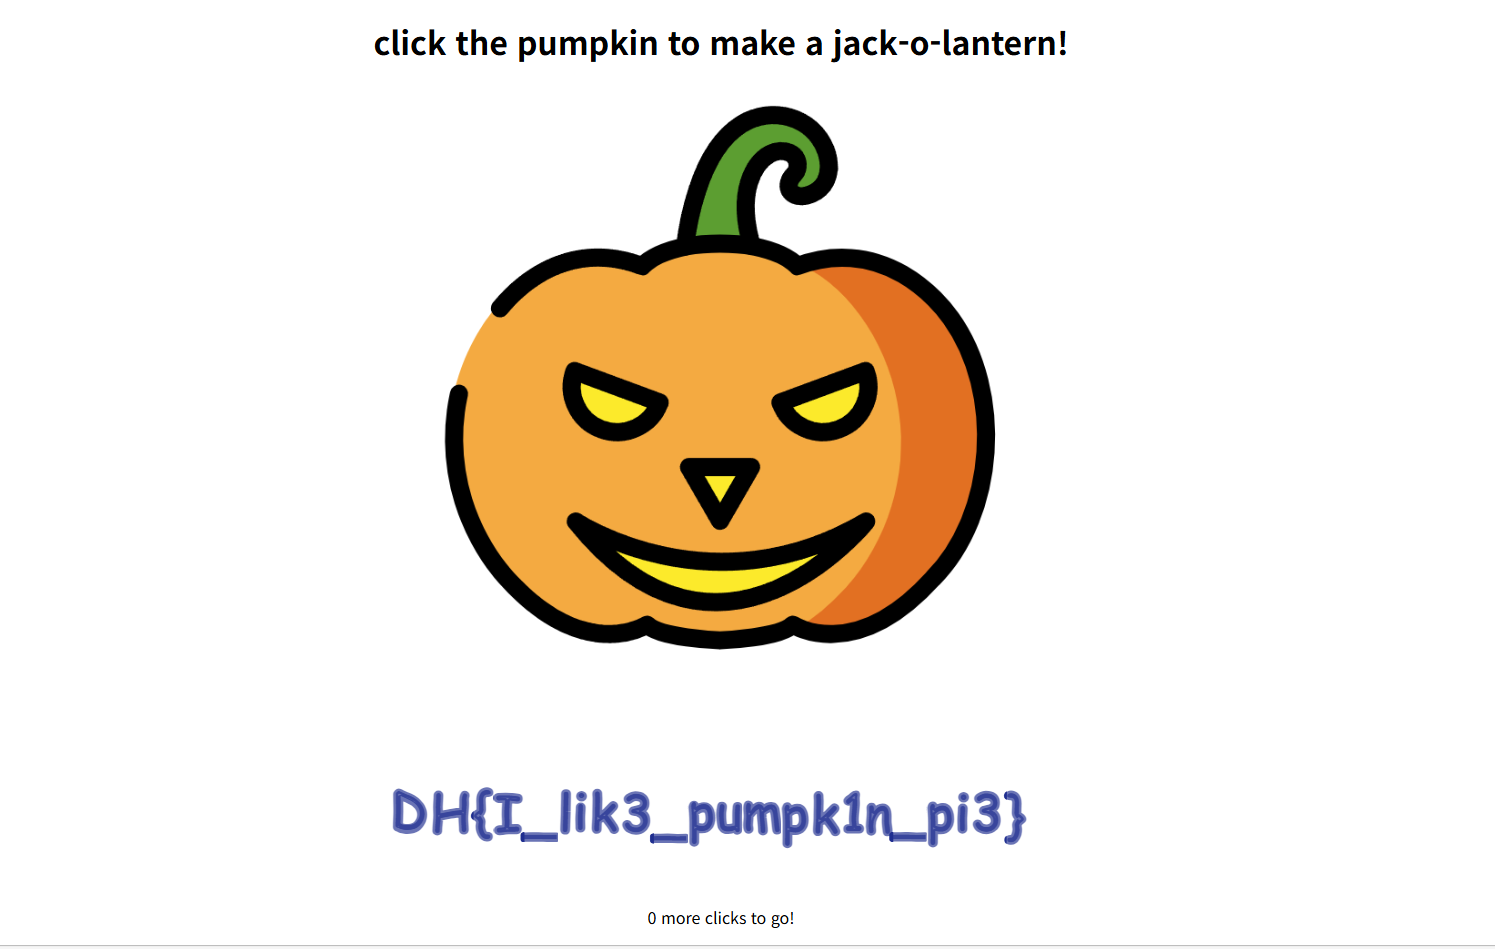
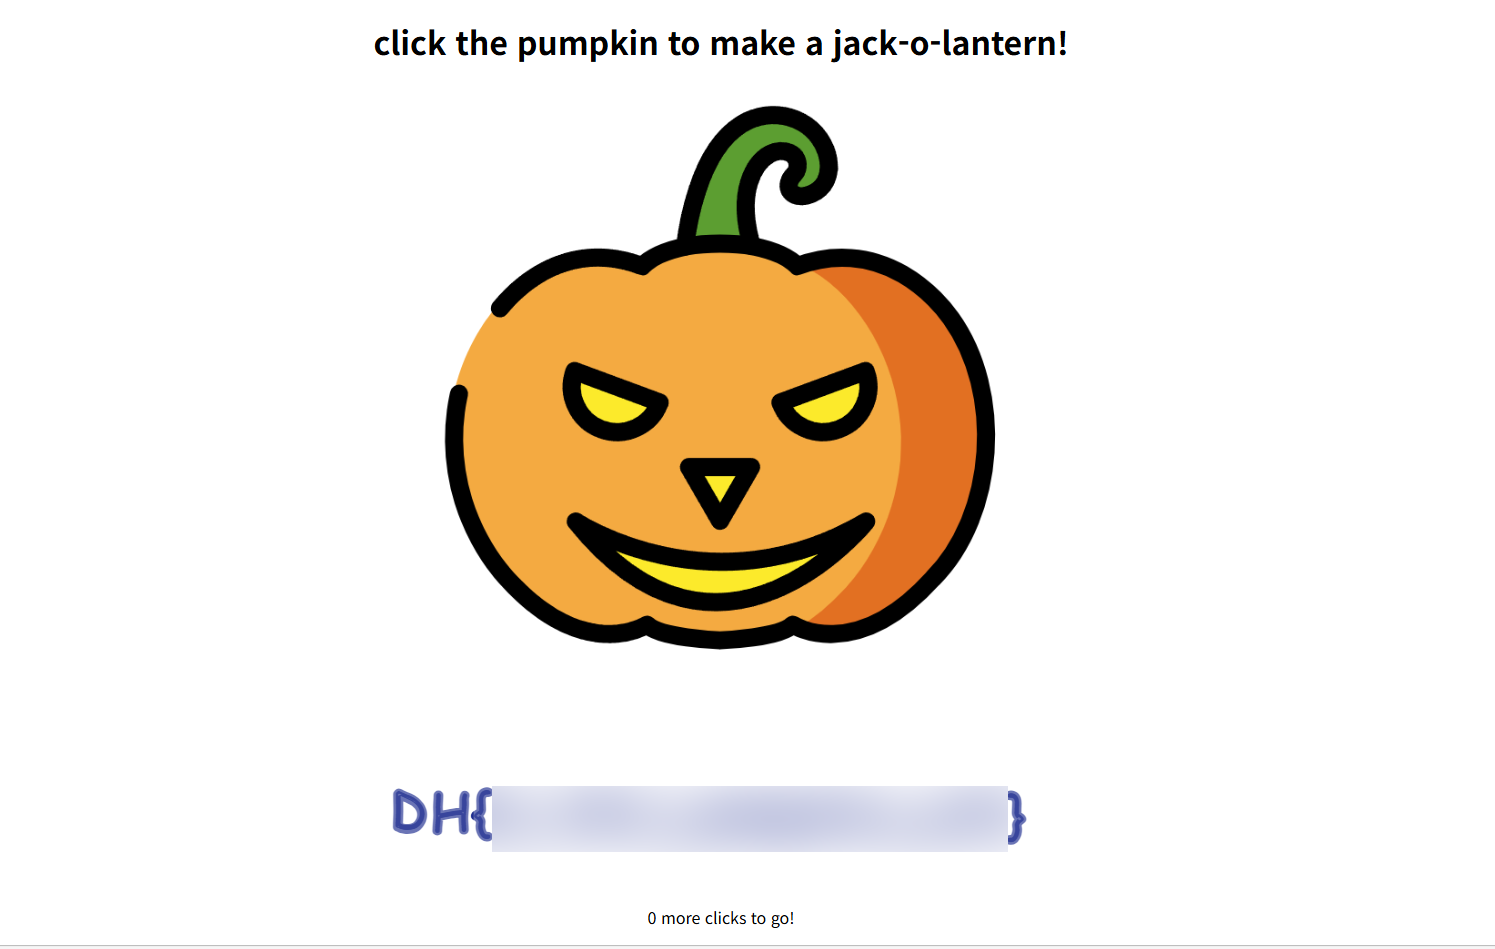
잭오랜턴.md 업데이트

Changed region(s): [[0.3077, 0.8251, 0.6769, 0.9168]]

diff --git a/Dreamhack/웹해킹/jack-o-lantern.md b/Dreamhack/웹해킹/jack-o-lantern.md
@@ -1,0 +1,45 @@
+# jack-o-lantern
+
+## 문제 정보
+- 플랫폼: Dreamhack
+- 분야: 웹해킹
+- 난이도: Beginner
+
+## 문제 설명
+할로윈 파티를 기념하기 위해 호박을 준비했다.
+호박을 10000번 클릭하면 플래그를 획득할 수 있다.
+
+## 풀이 과정
+1. 문제 파일을 다운로드 후 열어 메인 화면을 확인한다.
+![메인 화면](images/jack-o-lantern_1.png)
+
+2. F12 → Elements에서 소스코드를 분석한다.
+   - pumpkin 배열에 암호화된 값이 있다.
+   - 100번 클릭마다 XOR 연산으로 배열이 변환된다.
+   - 10000번 클릭 시 flag가 출력된다.
+![소스코드 분석](images/jack-o-lantern_2.png)
+
+3. F12 → Console에서 `allow pasting` 직접 타이핑 후 엔터한다.
+
+4. Console에 아래 코드를 붙여넣어 자동으로 10000번 클릭한다.
+```javascript
+   for(let i = 0; i < 10000; i++) {
+       $('#jack-target').click();
+   }
+```
+![Console 입력](images/jack-o-lantern_3.png)
+
+5. flag를 획득한다.
+![flag 획득](images/jack-o-lantern_4.png)
+
+## 취약점
+클라이언트 사이드에서 flag를 검증한다.
+소스코드가 노출되어 있어 로직을 분석하고 우회할 수 있다.
+
+## 배운 점
+- 클라이언트 사이드에서 flag를 검증하면 안 된다.
+- 소스코드가 노출된 경우 로직을 분석해 우회할 수 있다.
+- Console에서 클릭 이벤트를 자동화할 수 있다.
+
+## Flag
+DH{...}
